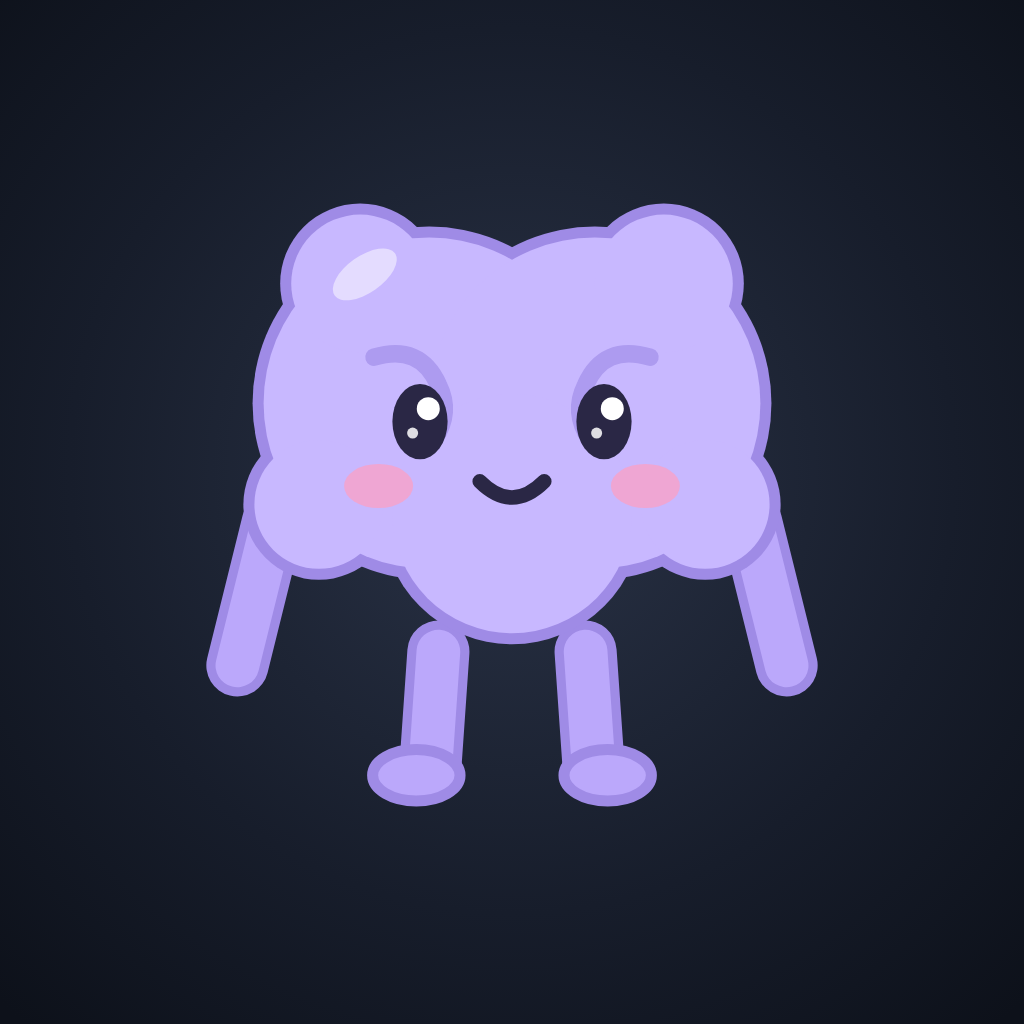
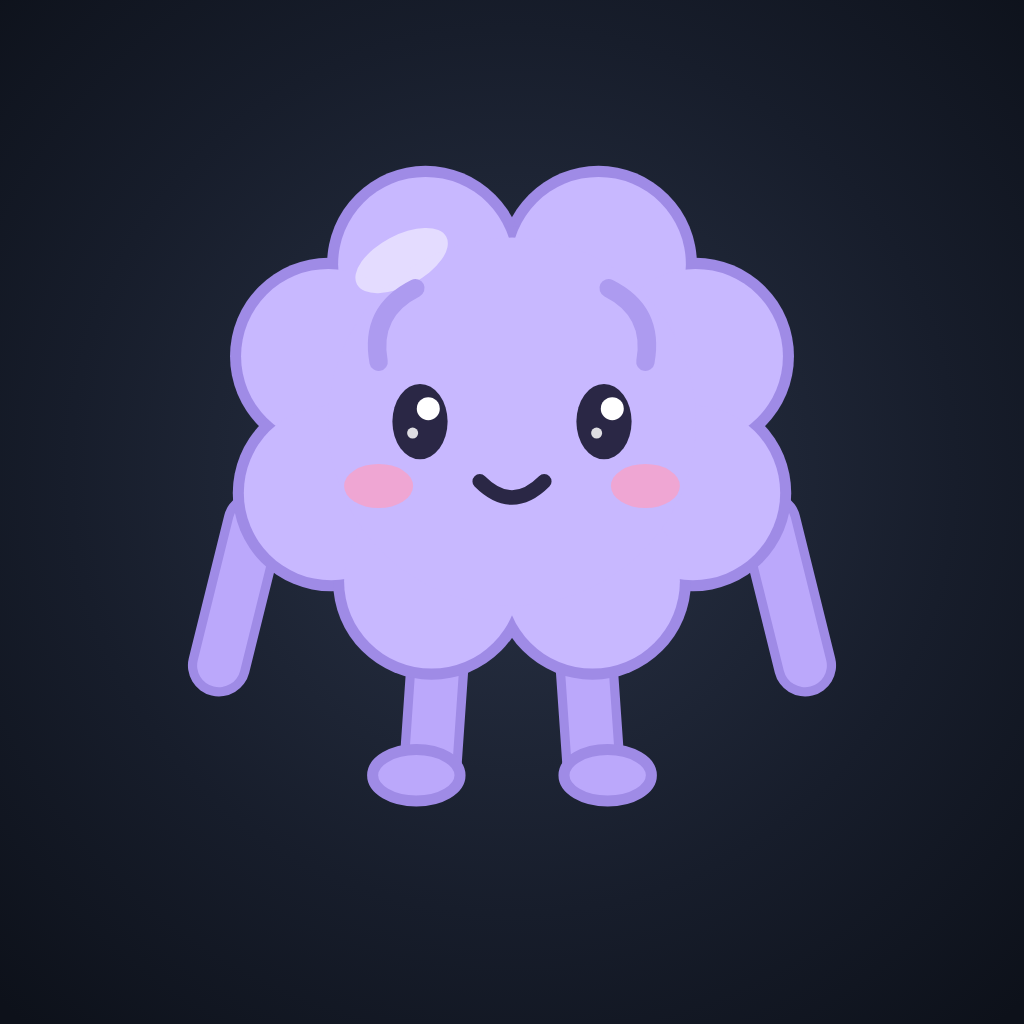
Pal: back to the v3 design (narrow, minimal lobed brain), centre line removed
Claude-Session: https://claude.ai/code/session_01NENw22NRLju7qRwaXWFpgL

Changed region(s): [[0.1875, 0.1562, 0.8125, 0.6875], [0.5312, 0.2812, 0.6562, 0.4062]]

diff --git a/src/lib/pal.ts b/src/lib/pal.ts
@@ -54,9 +54,8 @@ const f = (n: number) => Math.round(n * 10) / 10
 
 // silhouette: a chubby brain seen from the front: two hemispheres made of soft round lobes, a notch at the top and bottom
 type Blob = readonly [number, number, number]
-// two big hemispheres (notch where they meet), a few small bumps on the top and sides, smooth underneath
-const HALF: Blob[] = [[82, 72, 36], [67, 46, 15], [58, 94, 14]]
-const BLOBS: Blob[] = [...HALF, ...HALF.map(([x, y, r]): Blob => [200 - x, y, r]), [100, 96, 26]]
+const bump = (deg: number, side: 1 | -1): Blob => { const a = (deg * Math.PI) / 180; return [f(100 + side * 43 * Math.cos(a)), f(76 + 38 * Math.sin(a)), 19] }
+const BLOBS: Blob[] = [...[-64, -22, 24, 66].flatMap(d => [bump(d, 1), bump(d, -1)]), [100, 76, 40]]
 const circles = (extra: number) => BLOBS.map(([x, y, r]) => `<circle cx="${x}" cy="${y}" r="${f(r + extra)}"/>`).join('')
 
 function limb(x0: number, y0: number, angle: number, len: number, side: -1 | 1, name: string) {
@@ -128,11 +127,11 @@ export function poseSpec(name: PoseName): PoseSpec { return { ...BASE, ...(POSES
 export function palBody(name: PoseName): string {
   const p = poseSpec(name)
   const shoulderY = 98
-  const arms = limb(48, shoulderY, p.armL, 32, -1, 'arm armL') + limb(152, shoulderY, p.armR, 32, 1, 'arm armR')
+  const arms = limb(44, shoulderY, p.armL, 32, -1, 'arm armL') + limb(156, shoulderY, p.armR, 32, 1, 'arm armR')
   const body = `<g fill="${C.edge}">${circles(2.4)}</g><g fill="${C.body}">${circles(0)}</g>
-    <g fill="${C.hi}" opacity=".75"><ellipse cx="68" cy="44" rx="8" ry="4" transform="rotate(-35 68 44)"/></g>
-    <g fill="none" stroke="${C.fold}" stroke-width="3.8" stroke-linecap="round" stroke-linejoin="round">
-      <path d="M70 62q10 -3 14 6q3 6 -1 12"/><path d="M130 62q-10 -3 -14 6q-3 6 1 12"/>
+    <g fill="${C.hi}" opacity=".75"><ellipse cx="76" cy="41" rx="11" ry="5.5" transform="rotate(-28 76 41)"/></g>
+    <g fill="none" stroke="${C.fold}" stroke-width="4" stroke-linecap="round" stroke-linejoin="round">
+      <path d="M121 47q10 5 8 16"/><path d="M79 47q-10 5 -8 16"/>
     </g>`
   const face = `<ellipse cx="71" cy="90" rx="7.5" ry="4.8" fill="${C.cheek}" opacity=".7"/><ellipse cx="129" cy="90" rx="7.5" ry="4.8" fill="${C.cheek}" opacity=".7"/>${brows(p.brows)}<g class="eyes">${eyes(p.eyes)}</g>${mouth(p.mouth)}`
   const cx = 100, cy = 100
